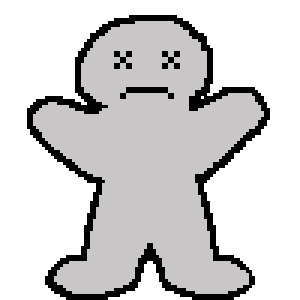
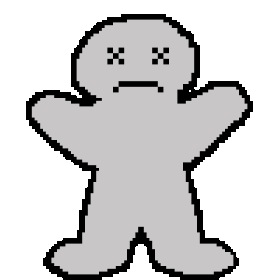
v2
- updated sprites
- changed name
- added start screen
- fixed mobile view
- button changed

diff --git a/style.css b/style.css
@@ -9,25 +9,48 @@ body {
     display: flex;
     justify-content: center;
     align-items: center;
-    min-height: 100vh;
     margin: 0;
+    min-height: 100vh;
+    width: 100vw;
+
+    background-image: url(./images/desert.png);
+    -webkit-background-size: cover;
+    -moz-background-size: cover;
+    -o-background-size: cover;
+    background-size: cover;
 }
 
 .container {
     position: relative;
     overflow: hidden;
 
+    min-height: 22vh;
 }
 
 .score {
     position: absolute;
-    font-size: 3vmin;
     right: 1vmin;
     top: 1vmin;
+    font-size: calc(15px + 1.5vw);
 }
 
 .high-score {
-    font-size: 3vmin;
+    font-size: calc(10px + 1.5vw);
+}
+
+/* Logo */
+.logoContainer {
+    position: absolute;
+}
+
+.gameLogo {
+    position: fixed;
+    z-index: 99999999;
+    top: 50%;
+    left: 50%;
+    transform: translate(-50%, -50%);
+    min-width: 50vmin;
+    min-height: 30vmin;
 }
 
 /* message block */
@@ -62,27 +85,57 @@ body {
     left: 50%;
     transform: translate(-50%, -50%);
     min-width: 35vmin;
+    min-height: 12vmin;
+    border-radius: 25px;
+    border: 0;
+    outline: none;
+    background-color: black;
+    color: white;
+    letter-spacing: 2px;
+    font-size: calc(10px + 1.5vw);
+    transition: all 0.1s ease;
+    box-shadow: rgb(100, 100, 100) 0px 8px 0px 0px;
+    cursor: pointer;
+}
+
+.jumpBtn:active {
+    background-color: black(255, 56, 86);
+    box-shadow: rgb(100, 100, 100) 0px 0px 0px 0px;
+    top: 88%;
+}
+
+
+
+.jumpBdtn {
+    position: fixed;
+    z-index: 99999999;
+    top: 87%;
+    left: 50%;
+    transform: translate(-50%, -50%);
+    min-width: 35vmin;
     min-height: 10vmin;
 
     background-color: black;
     border: 1px solid #000;
     border-radius: 4px;
-    box-shadow:white 4px 4px 0 0, #000 4px 4px 0 1px;
-    
+    box-shadow: white 4px 4px 0 0, #000 4px 4px 0 1px;
+
     color: white;
     cursor: pointer;
     outline: none;
-   
+
     font-size: 15px;
     line-height: 20px;
     padding: 12px 40px;
 }
 
-.jumpBtn:active {
+.jumpBdtn:active {
     box-shadow: none;
     left: 51%;
     top: 88%;
 }
+
+
 
 .hide {
     display: none;

diff --git a/script.js b/script.js
@@ -10,8 +10,11 @@ const container = document.querySelector('[data-container]');
 const score = document.querySelector('[data-score]');
 const highScore = document.querySelector('[data-high-score]');
 const messageScreen = document.querySelector('[data-message-screen]');
-const message1 = document.querySelector('.message1');
+const player = document.querySelector('[data-player]');
 
+const logoContainer = document.querySelector('.logoContainer');
+const message1 = document.querySelector('.message1');
+const message2 = document.querySelector('.message2');
 const jumpBtn = document.querySelector('.jumpBtn');
 
 setPixelToWorldScale();
@@ -105,6 +108,7 @@ function handleStart() {
     setupFloor();
     setupPlayer();
     setupObstacle();
+    logoContainer.classList.add("hide");
     messageScreen.classList.add("hide");
     highScore.classList.add("hide");
     // works with monitor refresh rate
@@ -127,6 +131,7 @@ function handleLose() {
     }
 
     message1.innerHTML = "Game Over";
+    message2.innerHTML = "Press Start to Try Again";
 
     // prevent immediate playback
     setTimeout(() => {
@@ -134,6 +139,7 @@ function handleLose() {
         jumpBtn.addEventListener("click", handleStart, { once: true });
         messageScreen.classList.remove("hide");
         highScore.classList.remove("hide");
+        jumpBtn.innerHTML = "Start";
     }, 850)
 }
 

diff --git a/index.html b/index.html
@@ -4,19 +4,22 @@
     <meta charset="UTF-8">
     <meta name="viewport" content="width=device-width, initial-scale=1.0">
     <link rel="stylesheet" href="style.css">
-    <title>Blob Run</title>
+    <title>Dune Rush</title>
 </head>
 <body>
      <div class="container" data-container>
         <div class="score" data-score></div> 
         <div class="high-score" data-high-score></div>
-        <div class="message-screen" data-message-screen>
-            <div class="message1"> Blob Run </div>
-            <div class="message2"> Press Any Key To Start </div>
+        <div class="logoContainer">
+            <img class="gameLogo" src="./images/logo.png">
         </div>
-        <img src="./images/floor.png" class="floor" data-floor>
-        <img src="./images/floor.png" class="floor" data-floor>
-        <img src="./images/blob_idle.png" class="player" data-player>
+        <div class="message-screen" data-message-screen>
+            <div class="message1"></div>
+            <div class="message2"></div>
+        </div> 
+        <img class="floor" data-floor>
+        <img class="floor" data-floor>
+        <img class="player" data-player>
         <div class="jumpContainer">
             <button class="jumpBtn"> Start </button>
         </div>

diff --git a/player.js b/player.js
@@ -67,7 +67,6 @@ function handleRun(delta, speedScale) {
     // run animation
     if (currFrameTime >= FRAME_TIME) {
         playerFrame = (playerFrame + 1) % PLAYER_FRAME_COUNT;
-        //player.src = `./images/dino-run-${playerFrame}.png`;
         player.src = `./images/blob_run_${playerFrame}.png`;
 
         //reset frametime
